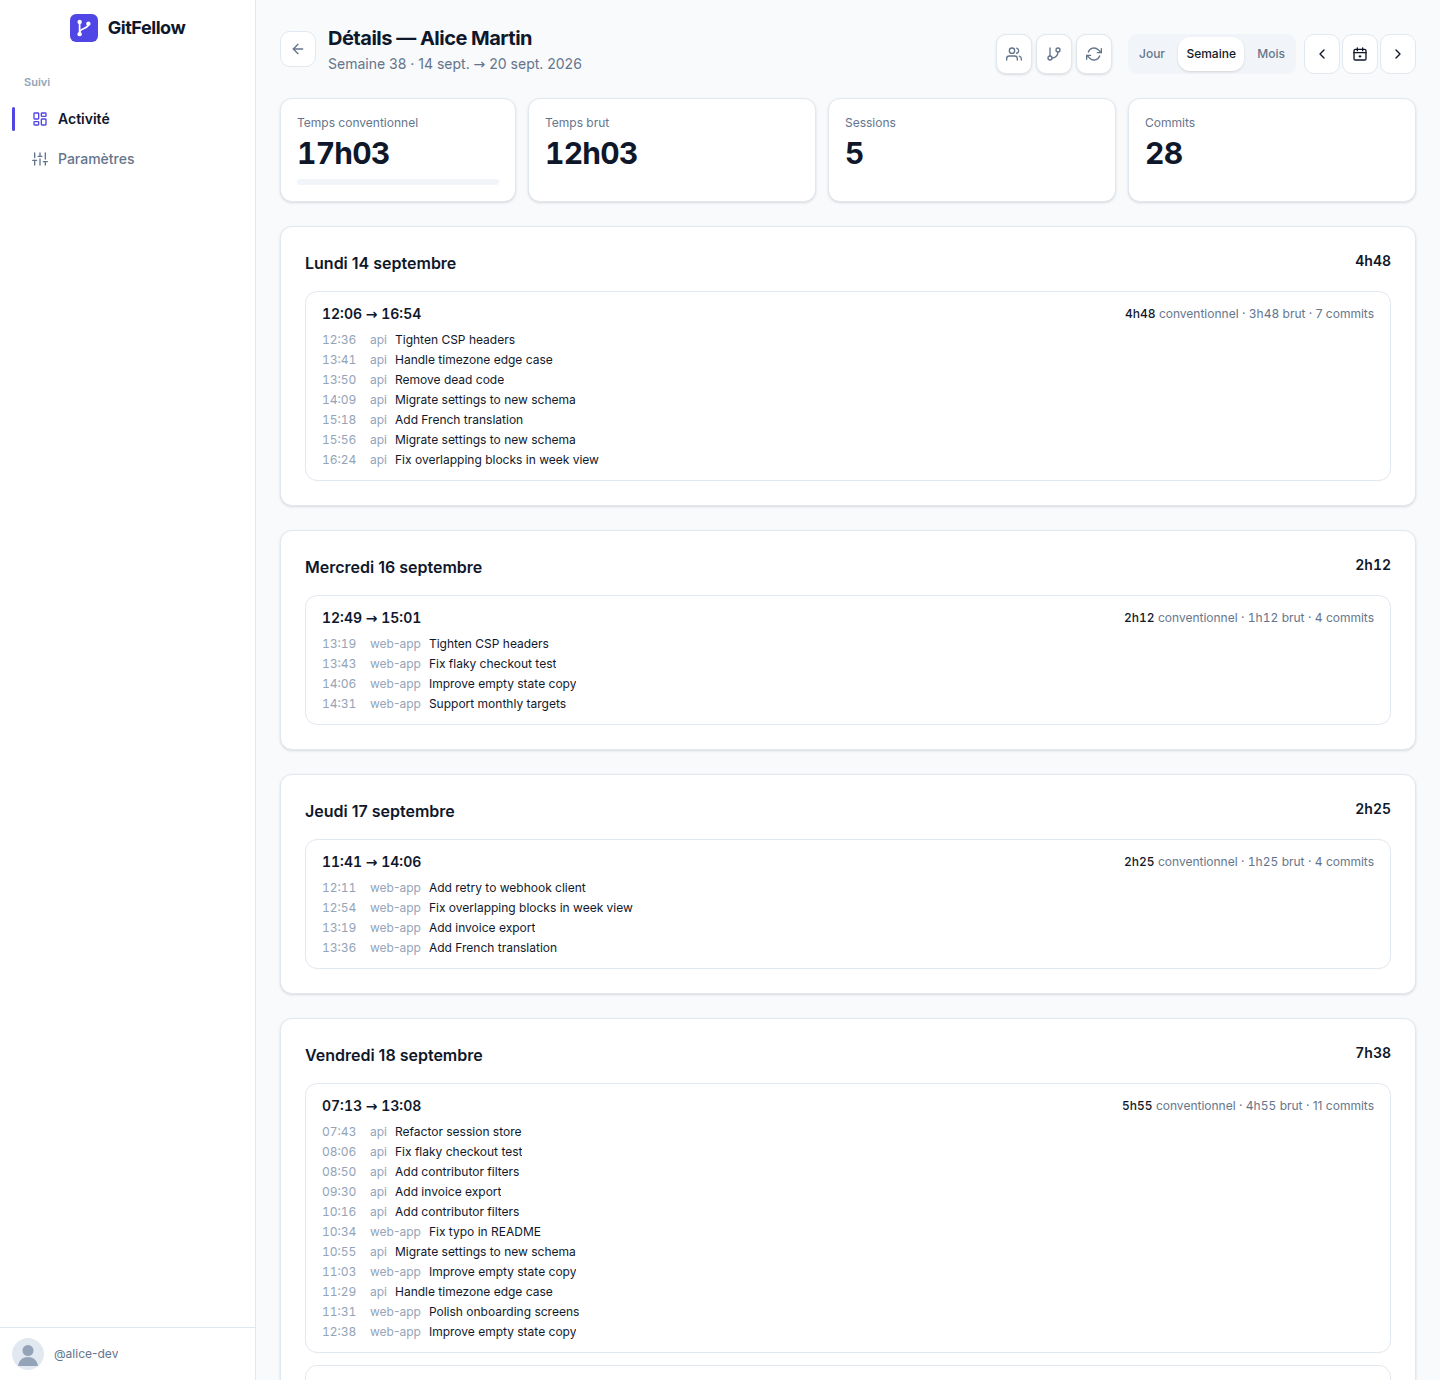
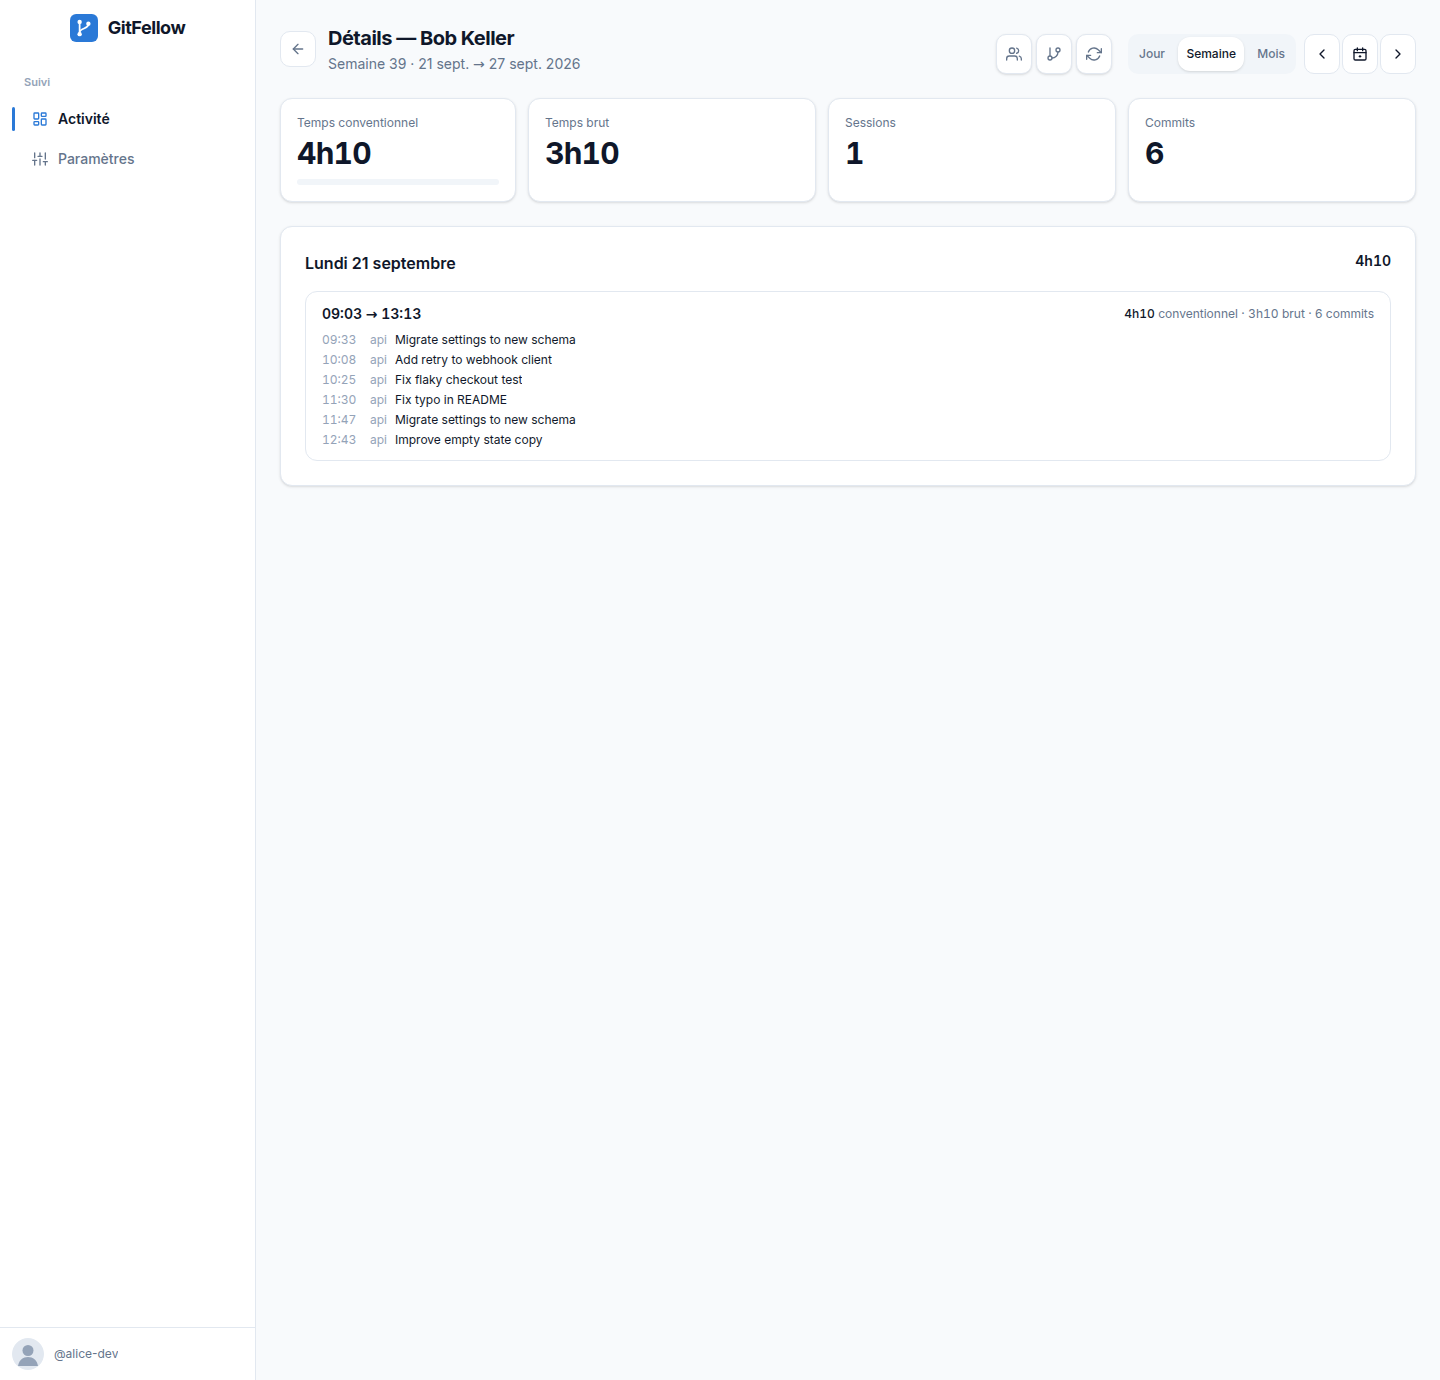
GitFellow passe au bleu #2a79d7
La couleur identitaire remplace l'indigo partout où l'interface se
signale : le logo (et la favicon), la page active du bandeau latéral —
barre et icône —, l'assistant d'installation de bout en bout (titre de
marque, garanties, pastilles d'étape, bouton « Se connecter », bouton
« Ouvrir github.com/login/device », point d'attente, cases à cocher et
bouton « Commencer le suivi »), la barre de la première synchronisation
et le bouton « Ouvrir le rapport ».

Trois dérivés accompagnent l'accent plutôt que d'en reprendre la valeur,
parce que #2a79d7 ne porte pas partout :

  --accent-fg   #1d569b  7,0 : 1 sur le fond, quand l'accent fait 4,2
  --accent-dark #5c98e0  6,0 : 1 sur l'encre, quand l'accent fait 4,1
  --accent-soft #eef6ff

Tous trois gardent la teinte (212,6°) et la saturation de la marque, et
retrouvent au point près les contrastes des violets qu'ils remplacent
(7,4 · 6,0). Même chose pour la bordure des filtres actifs, #c7d2fe →
#b4d6fd, à 1,50 : 1 sur le blanc contre 1,49.

La barre de progression passe de `bg-data` à `bg-accent` : c'est de
l'interface, pas de la donnée.

Le bleu de données (#2a78d6, première place du jeu catégoriel) devient
voisin de l'accent. C'est sans conséquence sur le rapport, qui prend sa
teinte des personnes, mais le commentaire le dit pour qui voudrait
fusionner les deux tokens.

Les quatorze captures du README sont reprises.

Claude-Session: https://claude.ai/code/session_01STUNUM5TqyfuURKzmXqGVv

diff --git a/app/globals.css b/app/globals.css
@@ -1,6 +1,6 @@
 @import "tailwindcss";
 
-/* Thème « Hub Colibrimo » : mêmes valeurs que les tokens shadcn du hub, résolues en hex. */
+/* Gris et rayons repris du hub (tokens shadcn résolus en hex) ; l'accent est la couleur GitFellow. */
 :root {
   color-scheme: light;
   --bg: #f8fafc; /* background · hsl(210 40% 98%) */
@@ -10,13 +10,14 @@
   --muted: #94a3b8; /* texte tertiaire */
   --line: #e2e8f0; /* border · hsl(214.3 31.8% 91.4%) */
   --line-strong: #cbd5e1;
-  --accent: #4f46e5; /* primary · hsl(243.4 75.4% 58.6%) */
-  --accent-fg: #463acb; /* accent-foreground · hsl(245 58% 51%) */
-  --accent-soft: #eef2ff; /* accent · hsl(226 100% 96.7%) */
-  --accent-dark: #818cf8; /* le violet sur fond d'encre : 4f46e5 n'y tient pas (2,8 : 1) */
+  --accent: #2a79d7; /* couleur identitaire · hsl(212.6 68.4% 50.4%) */
+  --accent-fg: #1d569b; /* le bleu en texte : 7,0 : 1 sur le fond, là où l'accent ne fait que 4,2 */
+  --accent-soft: #eef6ff; /* aplat très clair de la même teinte */
+  --accent-dark: #5c98e0; /* le bleu sur fond d'encre : l'accent n'y tient pas (4,1 : 1) */
   --track: #f1f5f9; /* muted · hsl(210 40% 96.1%) */
   --danger: #e11d48; /* destructive · hsl(346.8 77.2% 49.8%) */
-  --data: #2a78d6; /* teinte des données, première place du jeu catégoriel */
+  --data: #2a78d6; /* teinte des données, première place du jeu catégoriel (SWATCHES[0]) —
+     voisine de l'accent depuis que la marque est bleue : c'est voulu, pas un doublon à fusionner */
 }
 
 @theme inline {

diff --git a/src/lib/activity-view.ts b/src/lib/activity-view.ts
@@ -220,7 +220,7 @@ export function buildActivityView(input: ActivityViewInput): ActivityView {
   const periodSessions = new Map(selected.map((r) => [r.contributor.id, inRange(r.sessions, period.start, period.end)]));
   // Teinte de la page : celle de la personne quand elle est seule à l'écran — sélectionnée et
   // présente sur la période —, la teinte de données sinon. Jauges, répartitions, rythme,
-  // tendance et repères du calendrier en découlent ; l'indigo reste à l'interface.
+  // tendance et repères du calendrier en découlent ; le bleu de marque reste à l'interface.
   const onScreen = selected.filter((r) => (periodSessions.get(r.contributor.id) ?? []).length > 0);
   const hue = onScreen.length === 1 ? personSwatch(onScreen[0].contributor.id).dot : DATA_HUE;
   const periodDays = new Set(period.days);

diff --git a/src/components/setup/FirstSync.tsx b/src/components/setup/FirstSync.tsx
@@ -57,7 +57,7 @@ export function FirstSync() {
           {total > 0 ? <span className="tnum text-xs text-ink-2">{t(s.progress, { done: doneCount, total })}</span> : null}
         </div>
         <div className="h-2 w-full overflow-hidden rounded-full bg-track" role="progressbar" aria-valuemin={0} aria-valuemax={100} aria-valuenow={Math.round(ratio * 100)}>
-          <div className="h-full rounded-full bg-data transition-[width] duration-500" style={{ width: `${Math.max(2, ratio * 100)}%` }} />
+          <div className="h-full rounded-full bg-accent transition-[width] duration-500" style={{ width: `${Math.max(2, ratio * 100)}%` }} />
         </div>
         {progress?.current ? <span className="text-xs text-ink-2">{t(s.current, { repo: progress.current })}</span> : null}
       </div>

diff --git a/src/components/settings/Menu.tsx b/src/components/settings/Menu.tsx
@@ -51,7 +51,7 @@ export function Menu({
         className={`inline-flex h-9 items-center gap-2 rounded-md border px-3 text-sm transition-colors ${
           width ? `${width} justify-between` : ""
         } ${
-          open ? "border-[#c7d2fe] bg-accent-soft text-accent-fg" : "border-line bg-surface text-muted hover:border-line-strong hover:text-ink-2"
+          open ? "border-[#b4d6fd] bg-accent-soft text-accent-fg" : "border-line bg-surface text-muted hover:border-line-strong hover:text-ink-2"
         }`}
       >
         {label}

diff --git a/src/components/activity/FilterMenus.tsx b/src/components/activity/FilterMenus.tsx
@@ -47,7 +47,7 @@ function IconMenu({
   }, [open]);
 
   const toneClass = open
-    ? "border-[#c7d2fe] bg-accent-soft text-accent-fg"
+    ? "border-[#b4d6fd] bg-accent-soft text-accent-fg"
     : "border-line bg-surface text-ink-2 hover:bg-accent-soft hover:text-accent-fg";
 
   return (

diff --git a/README.fr.md b/README.fr.md
@@ -45,7 +45,7 @@ npx gitfellow --data-dir DIR   # un autre dossier de données
 - **Rapport d'activité** en vue Jour, Semaine ou Mois, une couleur par personne, chaque session à son heure réelle. La colonne de droite empile le cumul de la période avec sa jauge, la répartition par dépôt, le rythme jour × heure et la tendance ; le survol donne les chiffres.
 - **Filtres** par personnes et par dépôts, conservés d'une vue et d'une page à l'autre.
 - **Objectifs** — facultatifs, par personne : des heures par jour, par semaine ou par mois. Quelle que soit l'unité, l'objectif est ramené à des heures par jour ouvré et comparé à la période.
-- **Les couleurs suivent les données** — l'interface reste indigo ; le rapport prend une teinte par page : celle de la personne quand elle est seule à l'écran, le bleu de données sinon.
+- **Les couleurs suivent les données** — l'interface garde le bleu GitFellow ; le rapport prend une teinte par page : celle de la personne quand elle est seule à l'écran, le bleu de données sinon.
 - **Export CSV** des sessions d'une personne : `/api/export?contributor=<id>&week=2026-W38` (ou des dates `from`/`to`).
 - **Deux langues** — français et anglais, selon le navigateur, ou fixée dans les Paramètres.
 

diff --git a/README.md b/README.md
@@ -45,7 +45,7 @@ npx gitfellow --data-dir DIR   # another data folder
 - **Activity report** in Day, Week or Month view, one colour per person, each session at its real hour. The right column stacks the period's total with its gauge, the split by repository, the day × hour rhythm and the trend; hovering any of them gives the figures.
 - **Filters** by people and by repositories, kept across views and pages.
 - **Targets** — optional, per person: hours per day, per week or per month. Whatever the unit, the target is brought back to hours per working day and compared with the period.
-- **Colours follow the data** — the interface stays indigo; the report takes one hue per page: a person's colour when they are alone on screen, the data blue otherwise.
+- **Colours follow the data** — the interface keeps the GitFellow blue; the report takes one hue per page: a person's colour when they are alone on screen, the data blue otherwise.
 - **CSV export** of a person's sessions: `/api/export?contributor=<id>&week=2026-W38` (or `from`/`to` dates).
 - **Two languages** — French and English, after your browser, or fixed in Settings.
 
